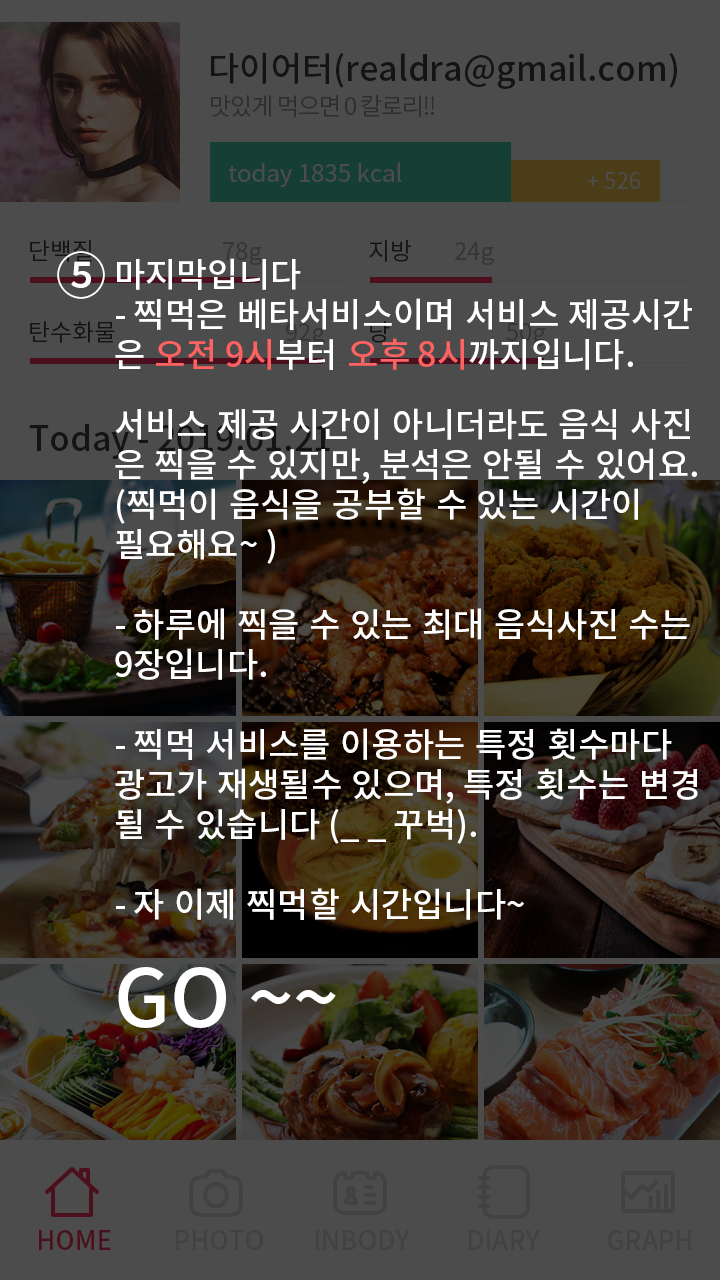
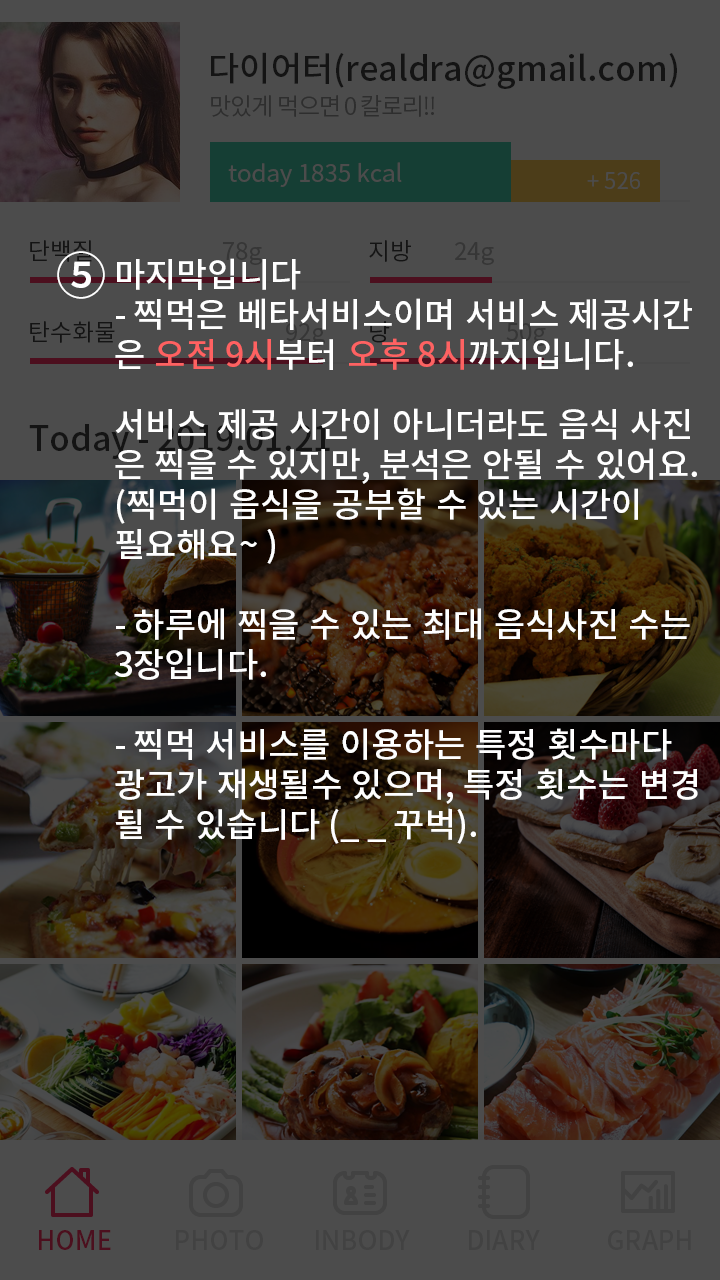
음식상세 화면, 가이드5장 수정

diff --git a/src/screen/food/Food.js b/src/screen/food/Food.js
@@ -11,6 +11,8 @@ import Container from '@container/Container';
 import FastImage from 'react-native-fast-image';
 import MaterialCommunityIcons from 'react-native-vector-icons/MaterialCommunityIcons';
 import Ionicons from 'react-native-vector-icons/Ionicons';
+import { COLOR } from 'react-native-material-ui';
+import {BoxShadow} from 'react-native-shadow'
 
 import Table from './Table'
 
@@ -51,23 +53,24 @@ class TakeFoodPic extends Component {
         title: <MaterialCommunityIcons
         name="food"
         color="#000000"
-        size={FONT_BACK_LABEL*2}
+        size={FONT_BACK_LABEL*1.8}
         borderWidth={0}/>,
         dataIndex: 'foodNm',
         isFirst: true,
-        width:width*0.27
+        width:width*0.3,
+        textLeft:true
       },
       {
         title: '칼로리',
         dataIndex: 'kilocalorie',
         lastTxt: 'kcal',
-        width:width*0.145
+        width:width*0.135
       },
       {
         title: '단백질',
         dataIndex: 'protein',
         lastTxt: 'g',
-        width:width*0.145
+        width:width*0.135
       },
       {
         title: '지방',
@@ -79,7 +82,7 @@ class TakeFoodPic extends Component {
         title: '탄수화물',
         dataIndex: 'carbohydrate',
         lastTxt: 'g',
-        width:width*0.145
+        width:width*0.135
       },
       {
         title: '당',
@@ -90,6 +93,15 @@ class TakeFoodPic extends Component {
     ];
 
     console.log(this.state.food);
+    const shadowOpt = {
+      height: width-width*0.15,
+      width: width-width*0.1,
+      color:COLOR.grey900,
+      border:2,
+      opacity:0.2,
+      x:1,
+      y:1
+    }
     const content = (
       <Container
         title={this.state.food.address}
@@ -102,47 +114,52 @@ class TakeFoodPic extends Component {
           }}
         >
           <View style={{ flex: 1, alignContent:"center" }}>
-            <View style={{flex:2}}>
-              <View style={{position:"absolute", height:"100%",width:"100%",zIndex:1,alignItems:"center",justifyContent:"center",flexDirection:"row"}}>
-              <Text style={{
-                color:"white",
-                fontSize:FONT_BACK_LABEL*2.2,
-                textShadowRadius:10,
-                textShadowColor:'#000000',
-                textShadowOffset:{width:0, height:0},
-                textAlign:"center",
-                textAlignVertical:"center"
-                }}>&nbsp;
-                <Ionicons
-                  name="ios-clock"
-                  color={"#ffffff"}
-                  size={FONT_BACK_LABEL*4}
-                  borderWidth={0}/>
-                  &nbsp;
-              </Text>
-              <Text style={{
-                color:"white",
-                fontSize:FONT_BACK_LABEL*2.2,
-                textShadowRadius:10,
-                textShadowColor:'#000000',
-                textShadowOffset:{width:0, height:0},
-                textAlign:"center",
-                textAlignVertical:"center"}}>
-                {this.state.food.registTime&&this.state.food.registTime.toString().length==13 ?
-                  Moment(this.state.food.registTime).format('YYYY-MM-DD HH:mm:ss').substring(0,10)+"\n"+Moment(this.state.food.registTime).format('YYYY-MM-DD HH:mm:ss').substring(10,19)
-                  :
-                  this.state.food.registTime.substring(0,10)+"\n"+this.state.food.registTime.substring(10,19)}
-                </Text>
-              </View>
-              <FastImage
-                          style={{height:"100%",width:"100%"}}
-                          source={{
-                            uri: this.state.food.firebaseDownloadUrl,
-                            priority: FastImage.priority.normal,
-                          }}
-                          resizeMode={FastImage.resizeMode.cover}
-                        />
-              </View>
+              <View style={{flex:2, paddingTop: width*0.05, paddingLeft: width*0.05, paddingBottom:width*0.05}}>
+            <BoxShadow setting={shadowOpt}>
+              <View style={{height:width-width*0.15, width: width-width*0.1}}>
+                <View style={{position:"absolute", height:"100%",width:"100%",zIndex:1,alignItems:"center",justifyContent:"center",flexDirection:"row"}}>
+                  <Text style={{
+                    color:"white",
+                    fontSize:FONT_BACK_LABEL*2.2,
+                    textShadowRadius:10,
+                    textShadowColor:'#000000',
+                    textShadowOffset:{width:0, height:0},
+                    textAlign:"center",
+                    textAlignVertical:"center"
+                    }}>&nbsp;
+                    <Ionicons
+                      name="ios-clock"
+                      color={"#ffffff"}
+                      size={FONT_BACK_LABEL*4}
+                      borderWidth={0}/>
+                      &nbsp;
+                  </Text>
+                  <Text style={{
+                    color:"white",
+                    fontSize:FONT_BACK_LABEL*2.2,
+                    textShadowRadius:10,
+                    textShadowColor:'#000000',
+                    textShadowOffset:{width:0, height:0},
+                    textAlign:"center",
+                    textAlignVertical:"center"}}>
+                    {this.state.food.registTime&&this.state.food.registTime.toString().length==13 ?
+                      Moment(this.state.food.registTime).format('YYYY-MM-DD HH:mm:ss').substring(0,10)+"\n"+Moment(this.state.food.registTime).format('YYYY-MM-DD HH:mm:ss').substring(10,19)
+                      :
+                      this.state.food.registTime.substring(0,10)+"\n"+this.state.food.registTime.substring(10,19)}
+                    </Text>
+                  </View>
+                    <FastImage
+                                style={{height:"100%",width:"100%"}}
+                                source={{
+                                  uri: this.state.food.firebaseDownloadUrl,
+                                  priority: FastImage.priority.normal,
+                                }}
+                                resizeMode={FastImage.resizeMode.cover}
+                              />
+                </View>
+                </BoxShadow>
+                </View>
+                
             <View style={{flex:1,padding:width*0.05, justifyContent:"center", alignItems:"center"}}>
               <Table height={height/3-height*0.105} columns={columns}
               /* columnWidth={width*0.145} */

diff --git a/src/screen/food/Table.js b/src/screen/food/Table.js
@@ -36,7 +36,7 @@ class Table extends Component {
   };
 
   _renderCell(cellData, col, isLast) {
-    let style = {width: col.width || this.props.columnWidth || DEFAULT_COLUMN_WIDTH, borderLeftWidth: col.isFirst? 1: 0, borderLeftColor:"#dfdfdf"};
+    let style = {paddingLeft:col.textLeft?5:0, alignItems:col.textLeft?"flex-start":"center", width: col.width || this.props.columnWidth || DEFAULT_COLUMN_WIDTH, borderLeftWidth: col.isFirst? 1: 0, borderLeftColor:"#dfdfdf"};
     return (
       <View key={col.dataIndex} style={[styles.cell, style]}>
         <Text style={{fontSize:FONT_BACK_LABEL*0.6}}>{cellData=="확인불가"?"잘모르겠어요":cellData}{col.lastTxt && col.lastTxt}</Text>
@@ -47,10 +47,10 @@ class Table extends Component {
   _renderHeader() {
     let { columns, columnWidth } = this.props;
     return columns.map((col, index) => {
-      let style = {width: col.width || columnWidth || DEFAULT_COLUMN_WIDTH, borderLeftWidth: col.isFirst? 1: 0, borderLeftColor:"#dfdfdf"};
+      let style = {width: col.width || columnWidth || DEFAULT_COLUMN_WIDTH, borderLeftWidth: col.isFirst? 1: 0, borderLeftColor:"#dfdfdf" };
       return (
         <View key={index} style={[styles.headerItem, style]}>
-          <Text style={{textAlign:"center",fontSize:FONT_BACK_LABEL*0.8}}>{col.title}</Text>
+          <Text style={{textAlign:"center",fontSize:FONT_BACK_LABEL*0.7}}>{col.title}</Text>
         </View>
       )
     })
@@ -69,14 +69,30 @@ class Table extends Component {
       <View key={index} style={[styles.row,{borderBottomColor:isLast? "#000000":"#dfdfdf"}]}>
         {
           columns.map((col,idx) => {
-            console.log(rowData.foodId);
-            console.log(col.dataIndex);
+            //console.log(rowData.foodId);
+            //console.log(col.dataIndex);
             var data = rowData[col.dataIndex];
             if(rowData.foodId==4909&&col.dataIndex=="foodNm"){
               data="잘모르겠어요";
             }
-            if(col.dataIndex=="foodNm"&&rowData.amountDish>1){
-              var data = rowData[col.dataIndex]+'x'+rowData.amountDish;
+            //console.log(rowData);
+            if(col.dataIndex=="foodNm"&&rowData[col.dataIndex]&&rowData[col.dataIndex]!=""){
+              if(rowData.food){
+                if(rowData.food.foodCategory&&rowData.food.foodCategory!=''&&(rowData.food.foodCategory.indexOf("음료")>-1||rowData.food.foodCategory.indexOf("우유")>-1)){
+                  data +="("+rowData.food.servingSize+"ml)";
+                }else{
+                  data +="("+rowData.food.servingSize+"g)";
+                } 
+              }else{
+                if(rowData.foodCategory&&rowData.foodCategory!=''&&(rowData.foodCategory.indexOf("음료")>-1||rowData.foodCategory.indexOf("우유")>-1)){
+                  data +="("+rowData.servingSize+"ml)";
+                }else{
+                  data +="("+rowData.servingSize+"g)";
+                } 
+              }
+              if(rowData.amountDish>1){
+                data += 'x'+rowData.amountDish;
+              }
             }
             return(renderCell(data, col))
           })

diff --git a/src/screen/guide/Guide.js b/src/screen/guide/Guide.js
@@ -12,6 +12,7 @@ import {
 import Images from "@assets/Images";
 
 import Swiper from 'react-native-swiper';
+import { COLOR } from 'react-native-material-ui';
 const {width, height} = Dimensions.get("window");
  
 var FONT_BACK_LABEL   = 16;
@@ -38,7 +39,7 @@ const styles = StyleSheet.create({
     padding: 15,
     paddingHorizontal: 20,
     alignSelf: 'flex-end',
-    margin: 20,
+    marginBottom: height*1/10
   }
 })
 
@@ -76,7 +77,7 @@ export default class Guide extends Component {
         >
         <View style={{ flex: 0, flexDirection: 'column', justifyContent: 'flex-end', alignItems:"flex-end" }}>
           <TouchableOpacity onPress={() => this.props.onCompleteGuide()} style={[styles.capture]}>
-            <Text style={[styles.text,{fontSize:FONT_BACK_LABEL*3,color:"black"}]}> 찍먹 시작! </Text>
+            <Text style={[styles.text,{fontSize:FONT_BACK_LABEL*3,color:COLOR.pink500}]}> 찍먹 시작! </Text>
           </TouchableOpacity>
         </View>
         </ImageBackground>
